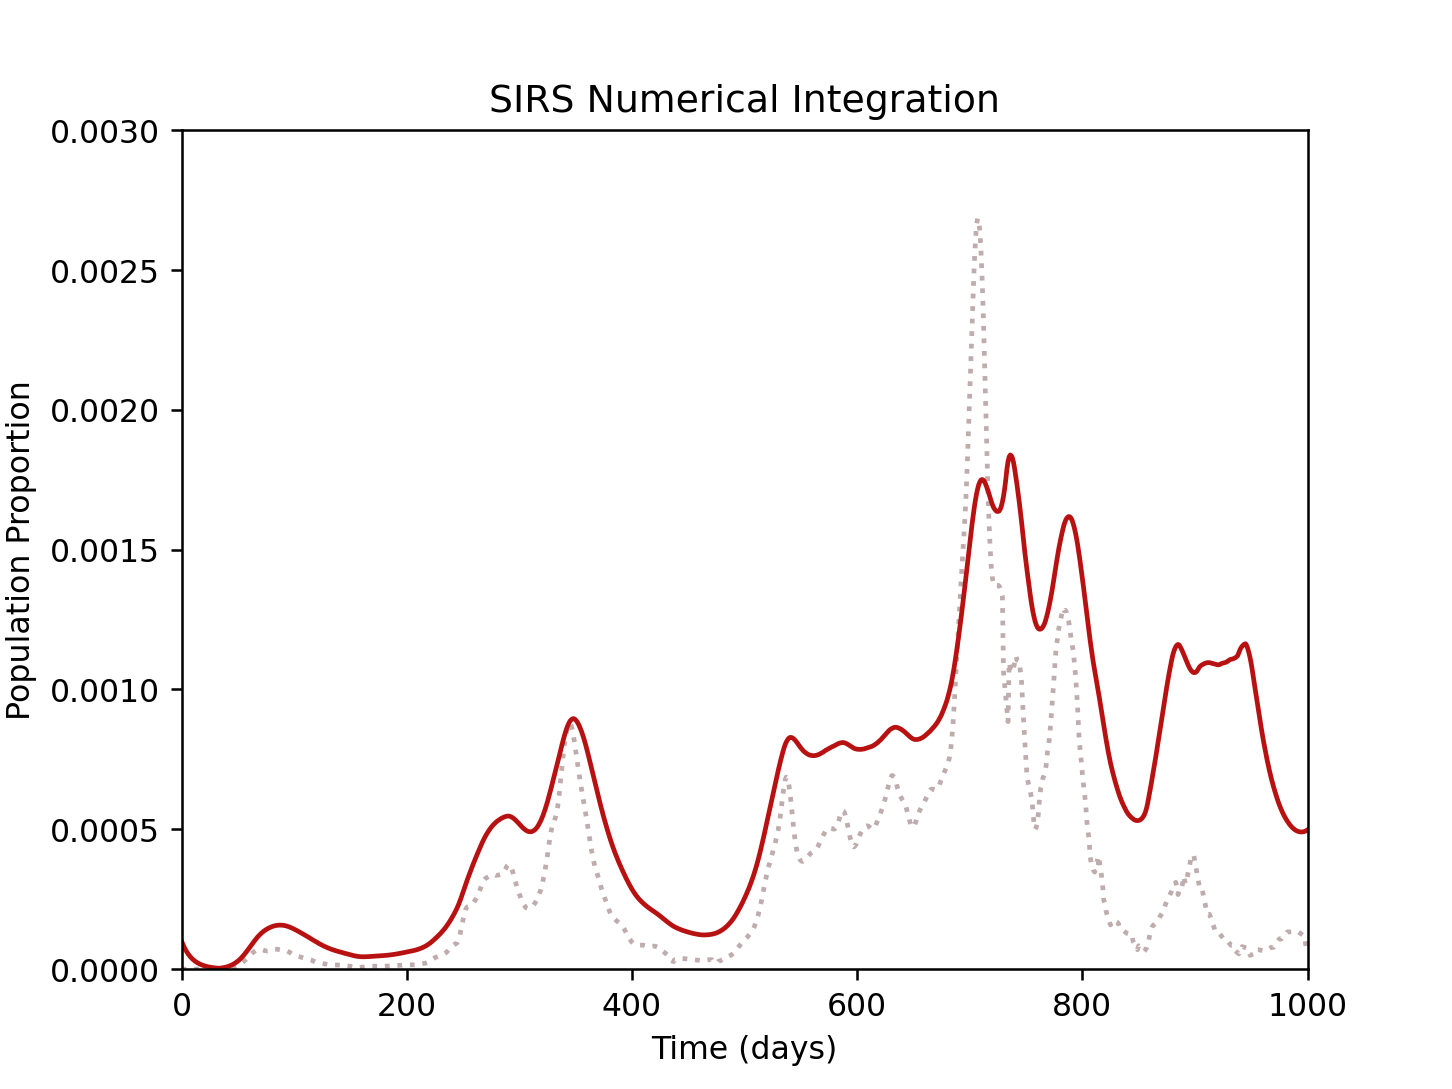
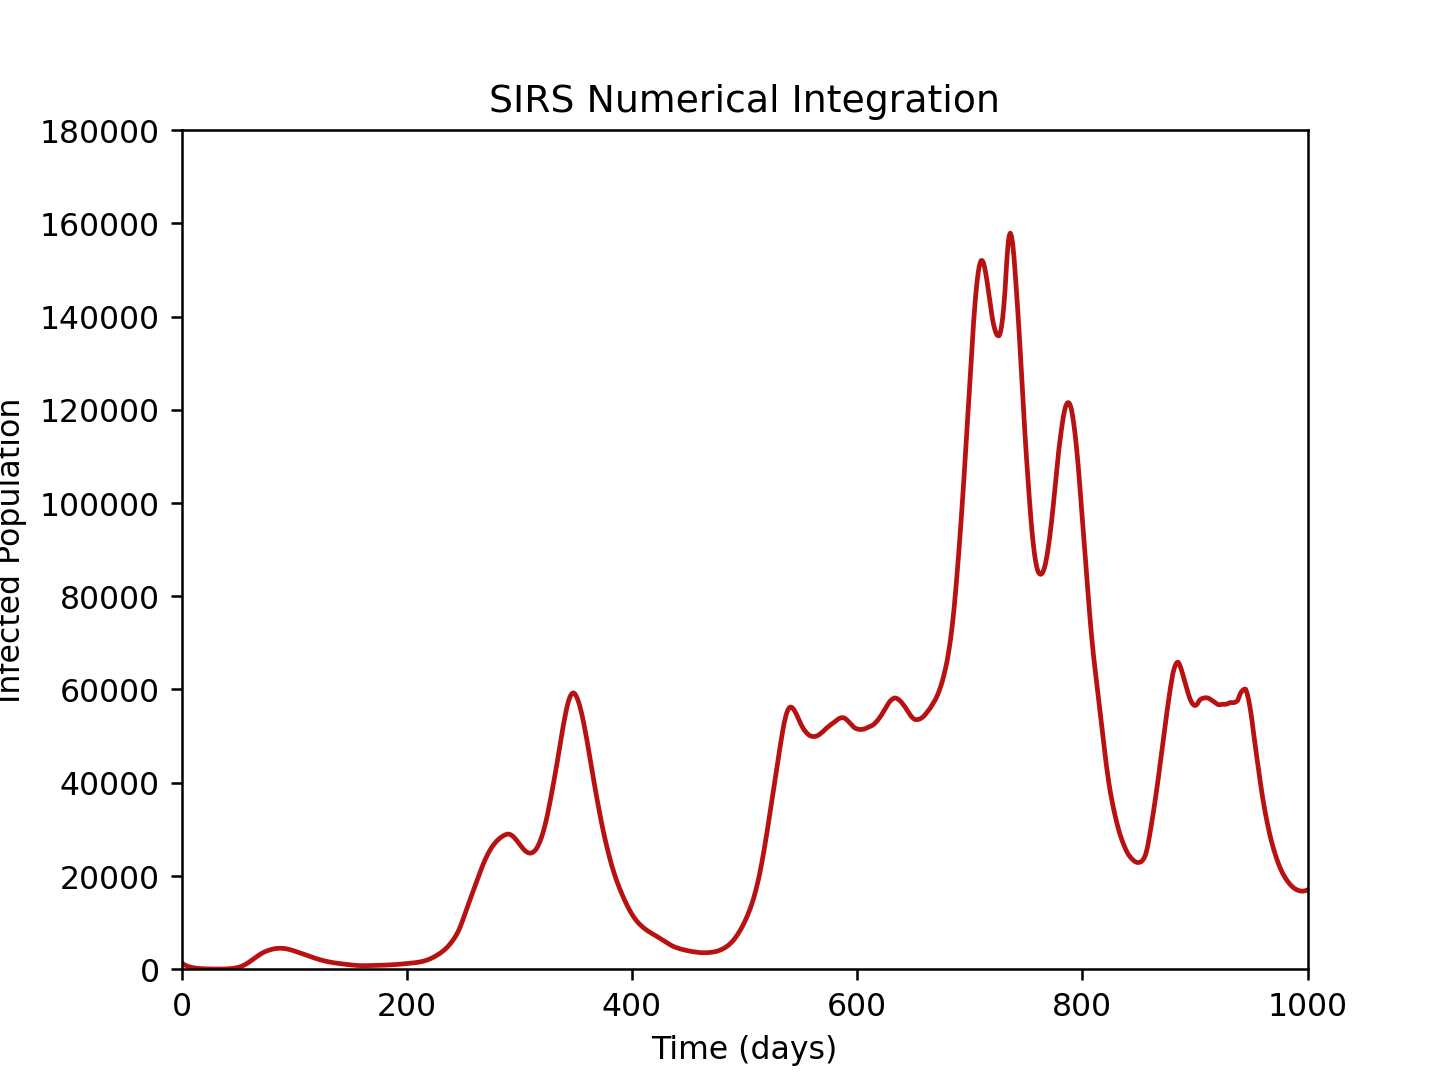
AS

diff --git a/SIR/SIR_FinalInfecCurve.py b/SIR/SIR_FinalInfecCurve.py
@@ -8,50 +8,64 @@ from random import random, randint
 
 class SIR_Model():
 
-    def __init__(self) -> None:
+    def progress_bar(self, current, total, bar_length=100):
+        fraction = current / total
+        arrow = int(fraction * bar_length - 1) * '-' + '>'
+        padding = int(bar_length - len(arrow)) * ' '
+        ending = '\n' if current == total else '\r'
+        print(f'Progress: [{arrow}{padding}] {round((fraction*100),5)}%', end=ending)
 
-        COVIDdf = (pd.read_csv('owid-covid-data-uk.csv')).replace(np.nan, 0)
+
+    def __init__(self, FinalTime=1000, dt=0.01, I_initial=0.00005, RecoveryRate=(1/10), GraphRounding=4, ContactFactor=0.98) -> None:
+
+        COVIDdf             = (pd.read_csv('owid-covid-data-uk.csv')).replace(np.nan, 0)
         
-        infectioncurve = np.array(list(np.array(COVIDdf['new_cases_smoothed']))[:1000])
-        kernel_size = 5
-        kernel = np.ones(kernel_size) / kernel_size
-        self.TrueInfectionCurve = np.convolve(infectioncurve, kernel, mode='same')
+        self.dt             = dt
+        self.FinalTime      = FinalTime
+        self.iterations     = int(self.FinalTime/self.dt)
 
-        self.S_initial = 1 - 0.0001
-        self.I_inital = 0.0001
-        self.population = self.S_initial + self.I_inital
-        self.RecoveryRate = 0.1
-        self.ContactRate = np.array(COVIDdf['reproduction_rate'])[:1000]*self.RecoveryRate
+        self.population     = 1
+        self.I_inital       = I_initial
+        self.S_initial      = self.population - I_initial
+        
+        self.RecoveryRate   = np.round(RecoveryRate,3)
+        self.ContactRate    = np.array(COVIDdf['reproduction_rate'])[:1000]*self.RecoveryRate*ContactFactor
+        self.GraphRounding  = GraphRounding
 
     def NumInt(self):
 
-        S ,I, R, NI = [self.S_initial], [self.I_inital], [0], [0]
+        S ,I, R, NI, T = [self.S_initial], [self.I_inital], [0], [0],[0]
+        beta = np.repeat(self.ContactRate, self.dt**(-1))
+        NIRT = 0
 
-        for n in np.arange(0,1000):
+        for n in np.arange(0, self.iterations):
 
-               dS = - self.ContactRate[n]*(I[n]/self.population)*S[n] 
-               dI = self.ContactRate[n]*(I[n]/self.population)*S[n] - self.RecoveryRate*I[n]
-               dR = self.RecoveryRate*I[n]
-
-               self.population += dI + dR + dS
+               dS = (-beta[n]*(I[n]/self.population)*S[n])*self.dt
+               dI = (beta[n]*(I[n]/self.population)*S[n] - self.RecoveryRate*I[n])*self.dt
+               dR = (self.RecoveryRate*I[n])*self.dt
 
                S.append(S[n] + dS)
                I.append(I[n] + dI)
                R.append(R[n] + dR)
-               NI.append(self.ContactRate[n]*(I[n]/self.population)*S[n])
+               T.append(self.dt*n)
+               
+               self.progress_bar(n, self.iterations)
+            
+               NIRT += (beta[n]*(I[n]/self.population)*S[n])*self.dt
+               if n%(self.dt**(-1)) == 0:
+                    NI.append(NIRT); NIRT = 0
 
-        return np.array(S), np.array(I), np.array(R), np.array(NI)
+        return np.array(S), np.array(I), np.array(R), np.array(NI), np.array(T)
     
     def Lineplot(self):
-        S,I,R,NI = self.NumInt()
-        #plt.plot(self.TrueInfectionCurve, c='#bfacac', label="Infected", ls=":")
-        plt.plot(NI, c='#b81111', label="Infected")
-        plt.title("SIR Numerical Integration")
-        plt.ylabel("Proportion of Population Infected")
+        S,I,R,NI,T = self.NumInt()
+        plt.plot(T,I*67000000, c='#b81111', label="Infected")
+        plt.title("SIR Model Infections $\gamma = "+ str(self.RecoveryRate) + "$")
+        plt.ylabel("Infected Population")
         plt.xlabel("Time (days)")
-        plt.xlim(0,1000)
-        plt.ylim(0,0.0002)
-        plt.savefig("SIR/SIRFinalInfectionCurve.png", dpi=227)
+        plt.xlim(0,self.FinalTime)
+        plt.grid(ls=":", c="grey", axis='y')
+        plt.savefig("SIR/SIRFinalInfectionCurve-" + str(self.RecoveryRate) + ".png", dpi=227)
 
 if __name__ == "__main__":
     SIR = SIR_Model()

diff --git a/SIRS/SIRS_FinalInfecCurve.py b/SIRS/SIRS_FinalInfecCurve.py
@@ -11,7 +11,7 @@ class SIR_Model():
     def __init__(self) -> None:
         
         self.FinalTime = 1000
-        self.dt = 1
+        self.dt = 0.01
         self.iterations = int(self.FinalTime/self.dt)
         COVIDdf = (pd.read_csv('owid-covid-data-uk.csv')).replace(np.nan, 0)
         
@@ -20,40 +20,48 @@ class SIR_Model():
         kernel = np.ones(kernel_size) / kernel_size
         self.TrueInfectionCurve = np.convolve(infectioncurve, kernel, mode='same')
 
-        self.S_initial = 1 - 0.0001
-        self.I_inital = 0.0001
+        self.S_initial = 1 - 0.00002
+        self.I_inital = 0.00002
         self.population = self.S_initial + self.I_inital
-        self.RecoveryRate = 0.1
+        self.RecoveryRate = 1/7
         self.ContactRate = np.array(COVIDdf['reproduction_rate'])[:1000]*self.RecoveryRate
         self.ImmunityLossRate = 1/365
+    
+    def progress_bar(self, current, total, bar_length=100):
+        fraction = current / total
+        arrow = int(fraction * bar_length - 1) * '-' + '>'
+        padding = int(bar_length - len(arrow)) * ' '
+        ending = '\n' if current == total else '\r'
+        print(f'Progress: [{arrow}{padding}] {round((fraction*100),5)}%', end=ending)
 
     def NumInt(self):
 
-        S ,I, R, = [self.S_initial], [self.I_inital], [0]
+        S ,I, R, T = [self.S_initial], [self.I_inital], [0], [0]
+        beta = np.repeat(self.ContactRate, self.dt**(-1))
 
         for n in np.arange(0,self.iterations):
 
-               dS = - self.ContactRate[n]*(I[n]/self.population)*S[n] + self.ImmunityLossRate*R[n]
-               dI = self.ContactRate[n]*(I[n]/self.population)*S[n] - self.RecoveryRate*I[n]
-               dR = self.RecoveryRate*I[n] - self.ImmunityLossRate*R[n]
+               dS = (-beta[n]*(I[n]/self.population)*S[n] + self.ImmunityLossRate*R[n])*self.dt
+               dI = (beta[n]*(I[n]/self.population)*S[n] - self.RecoveryRate*I[n])*self.dt
+               dR = (self.RecoveryRate*I[n] - self.ImmunityLossRate*R[n])*self.dt
 
-               self.population += dI + dR + dS
+               self.progress_bar(n, self.iterations)
 
                S.append(S[n] + dS)
                I.append(I[n] + dI)
                R.append(R[n] + dR)
+               T.append(self.dt*n)
 
-        return np.array(S), np.array(I), np.array(R)
+        return np.array(S), np.array(I), np.array(R), np.array(T)
     
     def Lineplot(self):
-        S,I,R = self.NumInt()
-        plt.plot(self.TrueInfectionCurve, c='#bfacac', label="Infected", ls=":")
-        plt.plot(I, c='#b81111', label="Infected")
+        S,I,R,T = self.NumInt()
+        plt.plot(T,I*67000000, c='#b81111', label="Infected")
         plt.title("SIRS Numerical Integration")
-        plt.ylabel("Population Proportion")
+        plt.ylabel("Infected Population")
         plt.xlabel("Time (days)")
-        plt.xlim(0,1000)
-        plt.ylim(0,0.003)
+        plt.xlim(0,self.FinalTime)
+        plt.ylim(0,180000)
         plt.savefig("SIRS/SIRSFinalInfectionCurve.png", dpi=227)
 
 if __name__ == "__main__":
